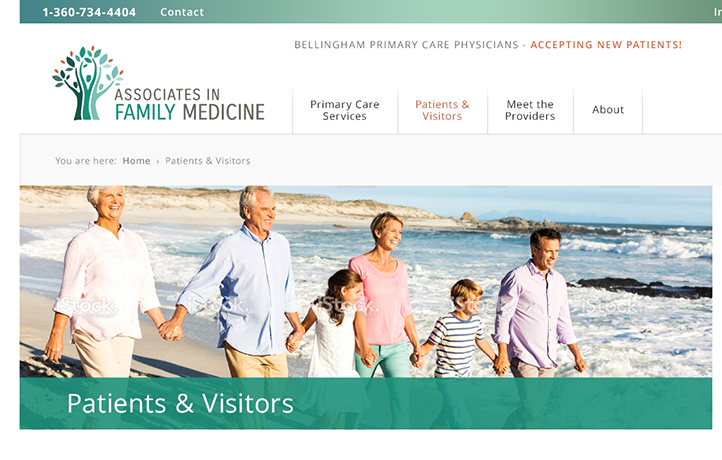
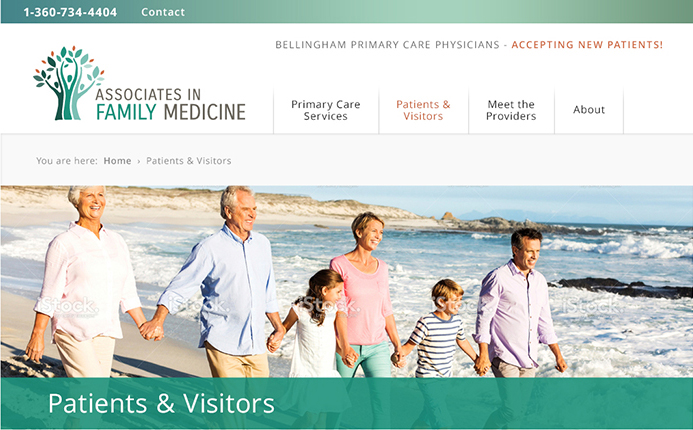
fghj

diff --git a/unit6/altportfolio.css b/unit6/altportfolio.css
@@ -90,12 +90,13 @@
         width: 45%;
       }
      div#logobox {
-        height: 10%;
+     /*   height: 10%;*/
         clear: both;
-        margin-top: 55%;
+     /*   margin-top: 55%; */  /*why isnt this working*/
         padding: 5%;
-        width: 100%;
-        background: #f3f2f0;
+        width: 70%;
+        margin: 0 auto;
+        background: #27a98d;
     }
       div#logo {
         width: 10%;

diff --git a/unit6/altportfolio.html b/unit6/altportfolio.html
@@ -27,7 +27,7 @@
 							 
   	   
   	   <div id="logobox">
-  	   <div id="logo"><img src="http://amandainnis.github.io/unit6/bcimages/allure_logo.gif"></div>
+  	   <div id="logo"><img src="http://amandainnis.github.io/unit6/bcimages/allure_logo.gif"><img src="http://amandainnis.github.io/unit6/bcimages/pma_homepage_logo.jpg"></div>
   	   </div> <!-- this is logobox -->
 
 	 
